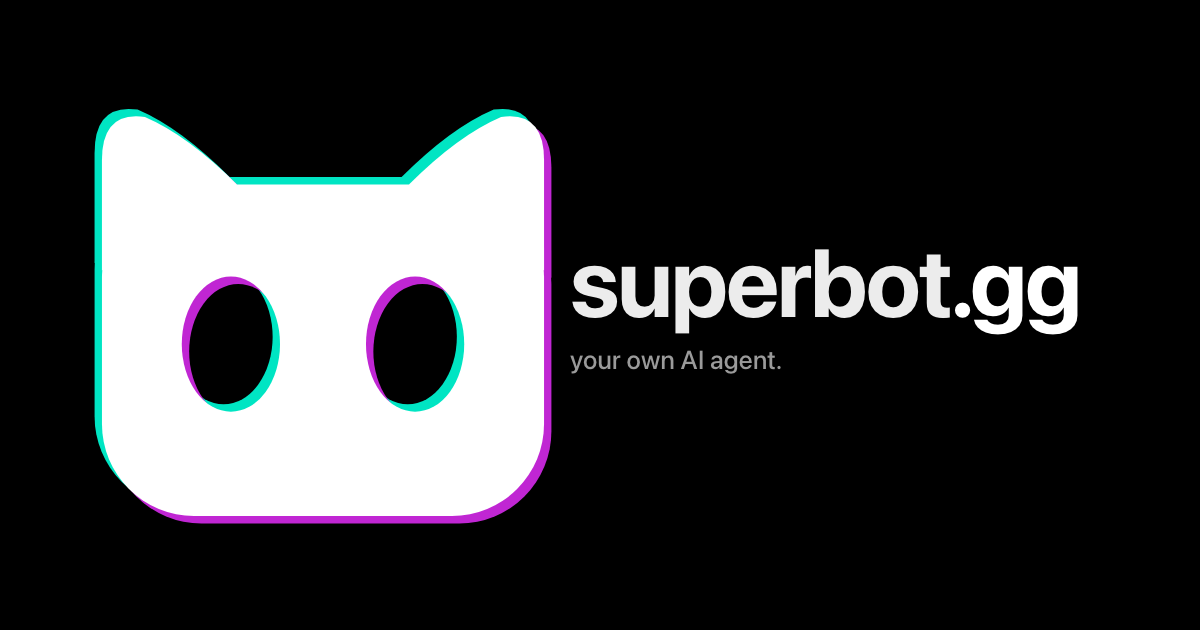
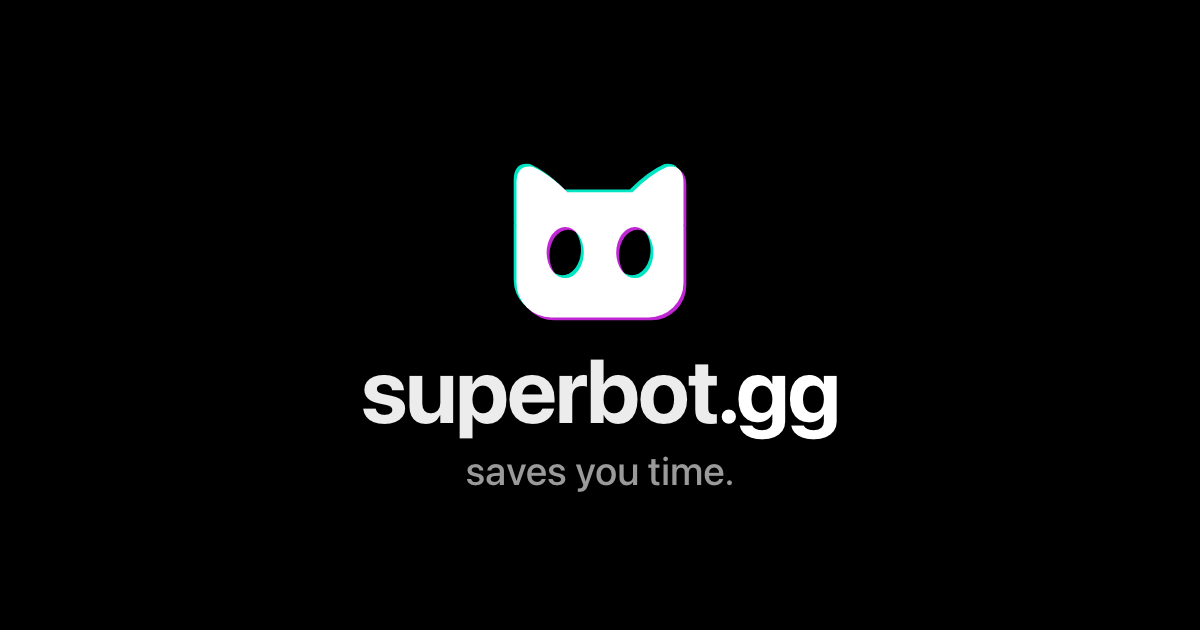
Refresh the profile card: superbot saves you time

Changed region(s): [[0.0617, 0.1508, 0.925, 0.8444]]

diff --git a/README.md b/README.md
@@ -1,4 +1,4 @@
-![Superbot, your own AI agent.](assets/superbot-card.png)
+![Superbot saves you time.](assets/superbot-card.png)
 
 # Superbot Helper
 
